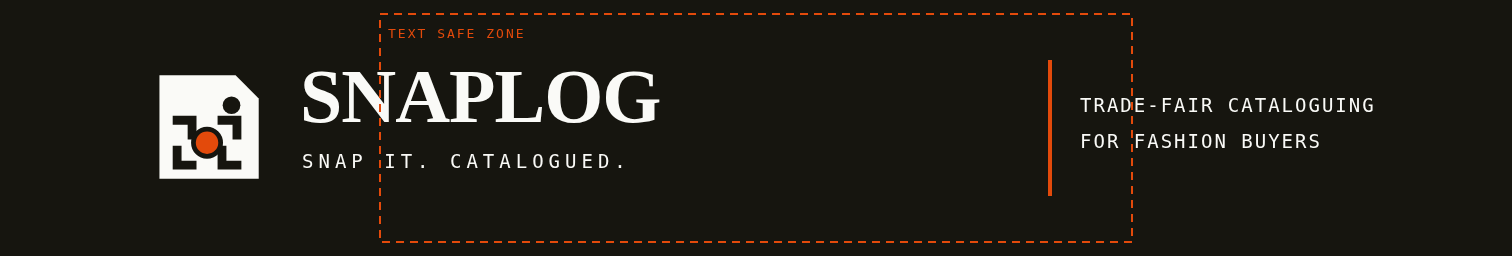
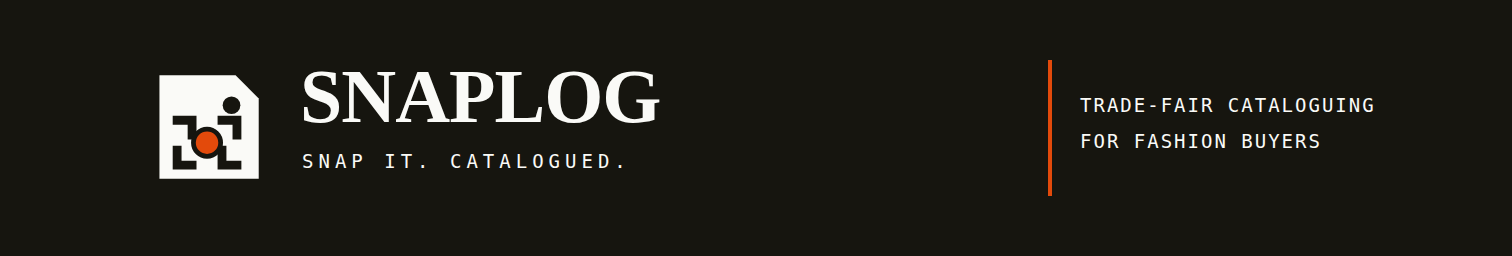
brand: remove safe-zone guides from social covers + IG story
Dashed orange safe-zone rects + labels (MOBILE-SAFE 640 / TEXT SAFE ZONE /
SAFE ZONE) were baked into the exported PNGs. Removed the guide layers
from the SVG masters (snaplog-social-covers.html, snaplog-social-templates.html)
and re-exported at exact pixels to docs/launch/art + docs/brand/exports.
White dashed divider rules kept — design element, not a guide.

diff --git a/docs/brand/snaplog-social-covers.html b/docs/brand/snaplog-social-covers.html
@@ -38,11 +38,11 @@ footer{margin-top:22px;border:2px solid var(--ink);background:var(--ink);color:#
 <header class="hero" data-od-id="hero">
   <div class="kicker">Stream A kit → Stream B · editable SVG masters, safe-area aware</div>
   <h1>Covers that survive the crop.</h1>
-  <p style="max-width:62ch">Facebook and LinkedIn masters at current upload dimensions, with safe-zone guides baked in as toggleable layers. Export PNGs below, or download the SVGs and edit text directly — no flattened files.</p>
+  <p style="max-width:62ch">Facebook and LinkedIn masters at current upload dimensions. Export PNGs below, or download the SVGs and edit text directly — no flattened files.</p>
 </header>
 
 <section class="card" id="s-fb" data-od-id="facebook-cover">
-  <div class="sec-head"><h2>Facebook Page cover — 851 × 315</h2><p>Meta upload spec · displays 820×312 desktop / 640×360 mobile · dashed = mobile-safe centre</p></div>
+  <div class="sec-head"><h2>Facebook Page cover — 851 × 315</h2><p>Meta upload spec · displays 820×312 desktop / 640×360 mobile · key content kept in mobile-safe centre</p></div>
   <div class="sec-body">
     <div class="stage">
       <svg class="master" id="svgFb" width="851" height="315" viewBox="0 0 851 315" role="img" aria-label="Snaplog Facebook cover">
@@ -57,11 +57,10 @@ footer{margin-top:22px;border:2px solid var(--ink);background:var(--ink);color:#
         <text x="270" y="182" font-family="Menlo,monospace" font-size="17" letter-spacing="4.5" fill="#FAFAF7">SNAP IT. CATALOGUED.</text>
         <line x1="270" y1="206" x2="790" y2="206" stroke="#FAFAF7" stroke-width="3" stroke-dasharray="10 8"/>
         <text x="270" y="240" font-family="Menlo,monospace" font-size="15" letter-spacing="2" fill="#E34A0B">TRADE-FAIR CATALOGUING FOR FASHION BUYERS</text>
-        <rect x="105" y="6" width="641" height="303" fill="none" stroke="#E34A0B" stroke-width="2" stroke-dasharray="8 6"/>
-        <text x="112" y="28" font-family="Menlo,monospace" font-size="12" letter-spacing="2" fill="#E34A0B">MOBILE-SAFE 640</text>
+
       </svg>
     </div>
-    <p class="px">Guides: orange dashed rect = 640px mobile-safe centre · profile photo overlaps bottom-left (~170px) — no text there · upload sRGB JPG &lt;100KB (PNG keeps the mono type crisp)</p>
+    <p class="px">Layout: key content in 640px mobile-safe centre · profile photo overlaps bottom-left (~170px) — no text there · upload sRGB JPG &lt;100KB (PNG keeps the mono type crisp)</p>
     <div class="btn-row"><button class="btn primary" data-dl="svgFb">Download SVG (editable)</button><button class="btn" data-png="svgFb" data-size="851x315">PNG 851×315</button><button class="btn" data-png="svgFb" data-size="1702x630">PNG 2× 1702×630</button></div>
   </div>
 </section>
@@ -83,11 +82,10 @@ footer{margin-top:22px;border:2px solid var(--ink);background:var(--ink);color:#
         <line x1="1050" y1="60" x2="1050" y2="196" stroke="#E34A0B" stroke-width="4"/>
         <text x="1080" y="112" font-family="Menlo,monospace" font-size="19" letter-spacing="2" fill="#FAFAF7">TRADE-FAIR CATALOGUING</text>
         <text x="1080" y="148" font-family="Menlo,monospace" font-size="19" letter-spacing="2" fill="#FAFAF7">FOR FASHION BUYERS</text>
-        <rect x="380" y="14" width="752" height="228" fill="none" stroke="#E34A0B" stroke-width="2" stroke-dasharray="8 6"/>
-        <text x="388" y="38" font-family="Menlo,monospace" font-size="13" letter-spacing="2" fill="#E34A0B">TEXT SAFE ZONE</text>
+
       </svg>
     </div>
-    <p class="px">Guides: dashed = text safe zone (clear of logo overlap bottom-left and trims) · max 3MB PNG/JPEG · limited text per LinkedIn guidance</p>
+    <p class="px">Layout: text clear of logo overlap bottom-left and trims · max 3MB PNG/JPEG · limited text per LinkedIn guidance</p>
     <div class="btn-row"><button class="btn primary" data-dl="svgLi">Download SVG (editable)</button><button class="btn" data-png="svgLi" data-size="1512x256">PNG 1512×256</button></div>
   </div>
 </section>
@@ -101,7 +99,7 @@ Both: test on mobile before publishing; re-crop trims sides first</div>
   </div>
 </section>
 
-<footer data-od-id="footer"><b style="font-family:var(--font-display)">SNAPLOG</b> — Stream B · covers · solid inks only · guides are layers, delete before final export if desired</footer>
+<footer data-od-id="footer"><b style="font-family:var(--font-display)">SNAPLOG</b> — Stream B · covers · solid inks only</footer>
 </div>
 <script>
 function standaloneSVG(id){const el=document.getElementById(id);const c=el.cloneNode(true);c.setAttribute('xmlns','http://www.w3.org/2000/svg');return '<?xml version="1.0" encoding="UTF-8"?>\n'+new XMLSerializer().serializeToString(c);}

diff --git a/docs/brand/snaplog-social-templates.html b/docs/brand/snaplog-social-templates.html
@@ -72,15 +72,14 @@ footer{margin-top:22px;border:2px solid var(--ink);background:var(--ink);color:#
 </section>
 
 <section class="card" id="s-story" data-od-id="instagram-story">
-  <div class="sec-head"><h2>Story — 1080 × 1920</h2><p>Dashed = safe zone · top 250px + bottom 340px stay empty for UI</p></div>
+  <div class="sec-head"><h2>Story — 1080 × 1920</h2><p>Top 250px + bottom 340px stay empty for UI</p></div>
   <div class="sec-body">
     <div class="two">
       <div class="stage">
         <svg class="master" id="svgStory" width="270" height="480" viewBox="0 0 1080 1920" role="img" aria-label="Snaplog hackathon story">
           <rect width="1080" height="1920" fill="#16150F"/>
           <rect x="0" y="0" width="1080" height="1920" fill="none" stroke="#FAFAF7" stroke-width="10"/>
-          <rect x="70" y="270" width="940" height="1330" fill="none" stroke="#E34A0B" stroke-width="3" stroke-dasharray="14 12"/>
-          <text x="100" y="320" font-family="Menlo,monospace" font-size="26" letter-spacing="4" fill="#E34A0B">SAFE ZONE</text>
+
           <g transform="translate(412,420) scale(1.05)">
             <path d="M58 52 H170 L204 86 V204 H58 Z" fill="#FAFAF7"/>
             <circle cx="164" cy="96" r="13" fill="#16150F"/>
